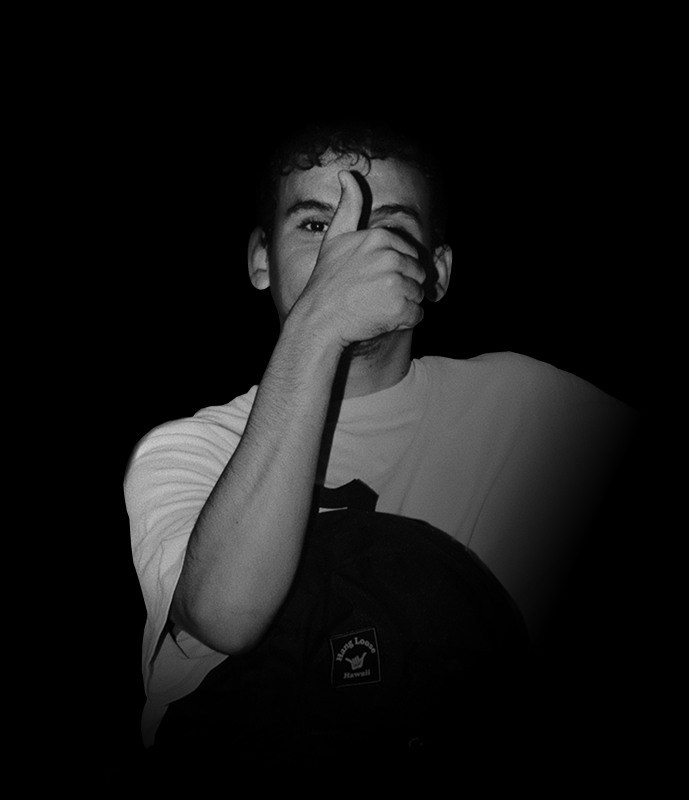
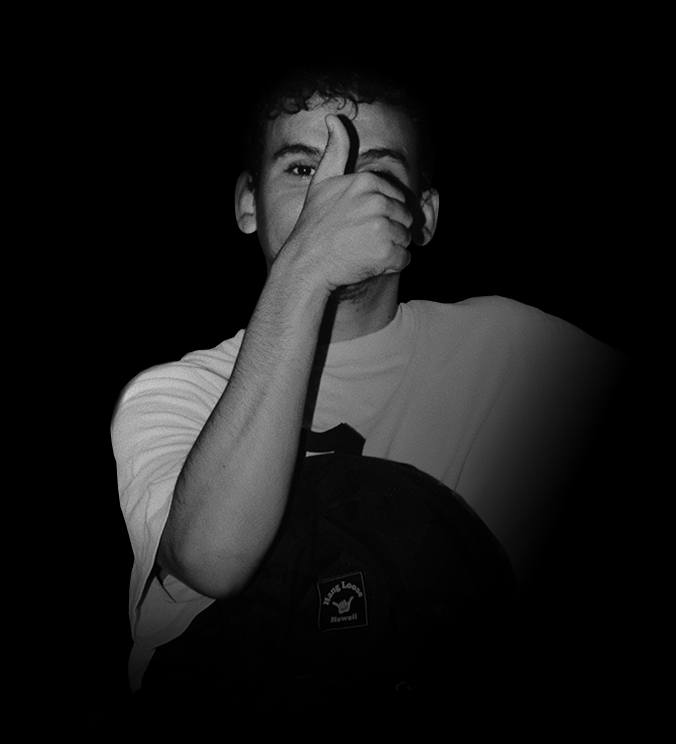
Add files via upload

diff --git a/about.html b/about.html
@@ -142,7 +142,7 @@
             <p class="apresentacao__conteudo__texto">At vero eos et accusamus et iusto odio dignissimos ducimus qui blanditiis praesentium voluptatum deleniti atque corrupti quos dolores et quas molestias excepturi sint occaecati cupiditate non provident, similique sunt in culpa qui officia deserunt mollitia animi, id est laborum et dolorum fuga.</p>
             <p class="apresentacao__conteudo__texto">Et harum quidem rerum facilis est et expedita distinctio. Nam libero tempore, cum soluta nobis est eligendi optio cumque nihil impedit quo minus id quod maxime placeat facere possimus, omnis voluptas assumenda est, omnis dolor repellendus. Temporibus autem quibusdam et aut officiis debitis aut rerum necessitatibus saepe eveniet ut et voluptates repudiandae sint et molestiae non recusandae. Itaque earum rerum hic tenetur a sapiente delectus, ut aut reiciendis voluptatibus maiores alias consequatur aut perferendis doloribus asperiores ipsum delis forum birol parela maxime infena. Excepteur sint occaecat cupidatat non.</p>
         </section>
-        <img class="apresentacao__imagem" src="./assets/Imagem.png" alt="Foto do Jocelino">    </main>
+        <img id="imagemRastreavel" class="apresentacao__imagem" src="./assets/Imagem.png" alt="Foto do Jocelino">    </main>
 
         <footer class="rodape">
             <div class="imagens">

diff --git a/skills.html b/skills.html
@@ -145,7 +145,7 @@
                 <p class="apresentacao__conteudo__texto_2">
                     Atualmente, estou embarcando em uma jornada de aprendizado em programação, concentrando-me no desenvolvimento de habilidades em PHP e Python. Essa decisão não apenas amplia meu leque de competências técnicas, mas também me permite explorar novas possibilidades e desafios na área da tecnologia da informação.</p>
             </section>
-            <img class="apresentacao__imagem" src="./assets/Imagem.png" alt="Foto do Jocelino">
+            <img id="imagemRastreavel" class="apresentacao__imagem" src="./assets/Imagem.png" alt="Foto do Jocelino">
         </main>
         <footer class="rodape">
             <div class="imagens">

diff --git a/index.html b/index.html
@@ -153,7 +153,7 @@
                     
                 </div>
             </section>
-            <img class="apresentacao__imagem" src="./assets/Imagem.png" alt="Foto do Jocelino">
+            <img id="imagemRastreavel" class="apresentacao__imagem" src="./assets/Imagem.png" alt="Foto do Jocelino">
                 </main>
         <footer class="rodape">
             <div class="imagens">

diff --git a/contact.html b/contact.html
@@ -153,7 +153,7 @@
                        </form>
                     </main>
             </section>
-            <img class="apresentacao__imagem" src="./assets/Imagem.png" alt="Foto do Jocelino">
+            <img id="imagemRastreavel" class="apresentacao__imagem" src="./assets/Imagem.png" alt="Foto do Jocelino">
         </main>
        
         <footer class="rodape">

diff --git a/styles/style.css b/styles/style.css
@@ -280,7 +280,7 @@ body {
 
     .apresentacao__imagem{
         width: 42%;
-        margin: 10% 0% 0% 0%;
+        margin: 7% 0% 0% 0%;
         padding: 1%;
         height: auto;
     }
